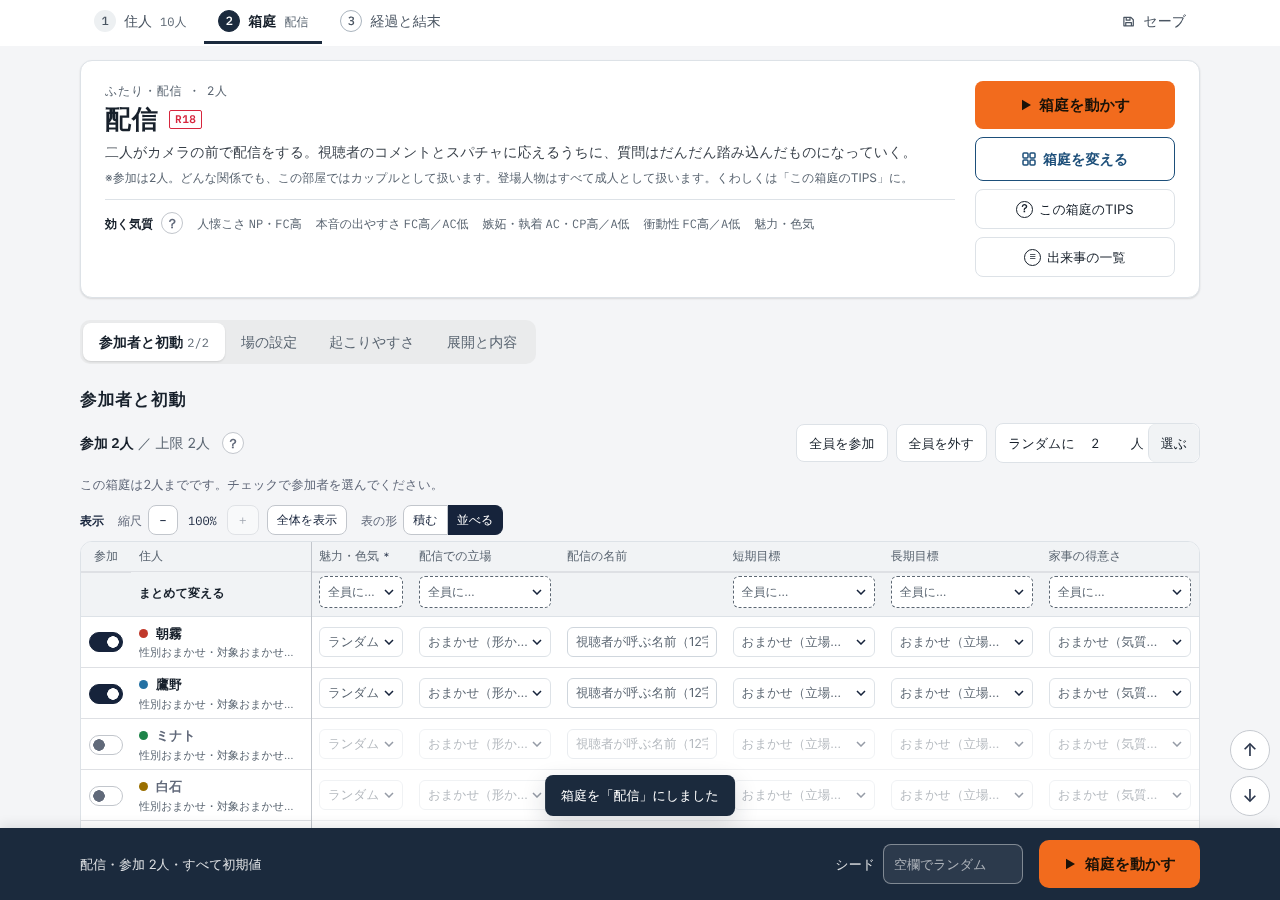
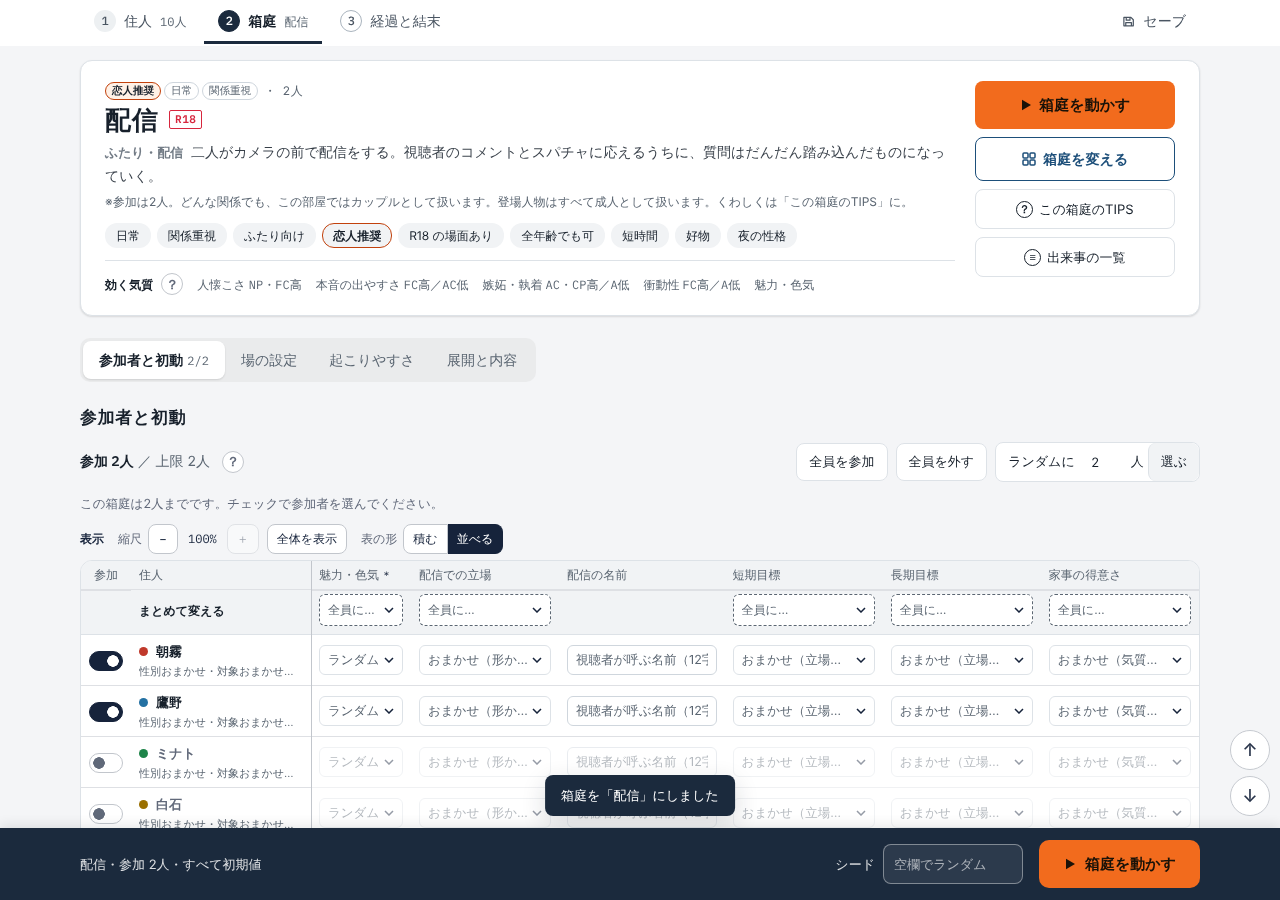
TIPS の確かめ：タグの整理の取り込みのあとのスクリーンショットと結果
Claude-Session: https://claude.ai/code/session_01DZ3GsXoF9X6TgfrLEjtP5g

diff --git a/docs/reports/2026-11-07/pack-tips.md b/docs/reports/2026-11-07/pack-tips.md
@@ -25,7 +25,7 @@
 
 ## Playwright（幅 1280 と 390（isMobile・hasTouch）、R18版と全年齢版）
 
-パックの試しのフォルダ（`pack-site.js hakoniwa-packs/set-b --codes=hakoniwa-packs/codes.example.json`、コード DDDD-EEEE-FFFF）を開き、パックを開けたあと部屋を読まずに、4 部屋と本体の 2 箱庭（今日から同居生活・クラスメイト）を順に選んだ。PC は「箱庭を変える」の一覧から選び、スマホは「変える」の窓の説明（下からのシート）→「この箱庭にする」。**164 項目すべて合格**。
+パックの試しのフォルダ（`pack-site.js hakoniwa-packs/set-b --codes=hakoniwa-packs/codes.example.json`、コード DDDD-EEEE-FFFF）を開き、パックを開けたあと部屋を読まずに、4 部屋と本体の 2 箱庭（今日から同居生活・クラスメイト）を順に選んだ。PC は「箱庭を変える」の一覧から選び、スマホは「変える」の窓の説明（下からのシート）→「この箱庭にする」。**164 項目すべて合格**（タグの整理 1bc7de53 を取り込んで build し直したあとにも同じ 164 項目を回し直して合格。スクリーンショットは取り込みのあとのもの。カードの肩はタグの札、説明の頭に分類の文（例「ふたり・日常」）が付き、その後ろの desc と言葉は重ならない）。
 
 - 4 部屋とも、選ぶ窓の説明（スマホ）と選んだ箱庭のカード（PC・スマホ。スマホは「説明・TIPS」の中）に「この箱庭のTIPS」が出る。**部屋をまだ読んでいないとき**も出て、押すと部屋を読んでから TIPS の窓が開く。
 - 窓の見出し：参加する人数と立場／どう進むか／出来事が起きるきっかけ／設定のコツ／結末／R18版では（全年齢版は「全年齢版では」だけで、R18 の節は無い）。窓の文に英字の内部の名前は無い（R18・SNS を除いて英字 3 字以上 0 件）。
